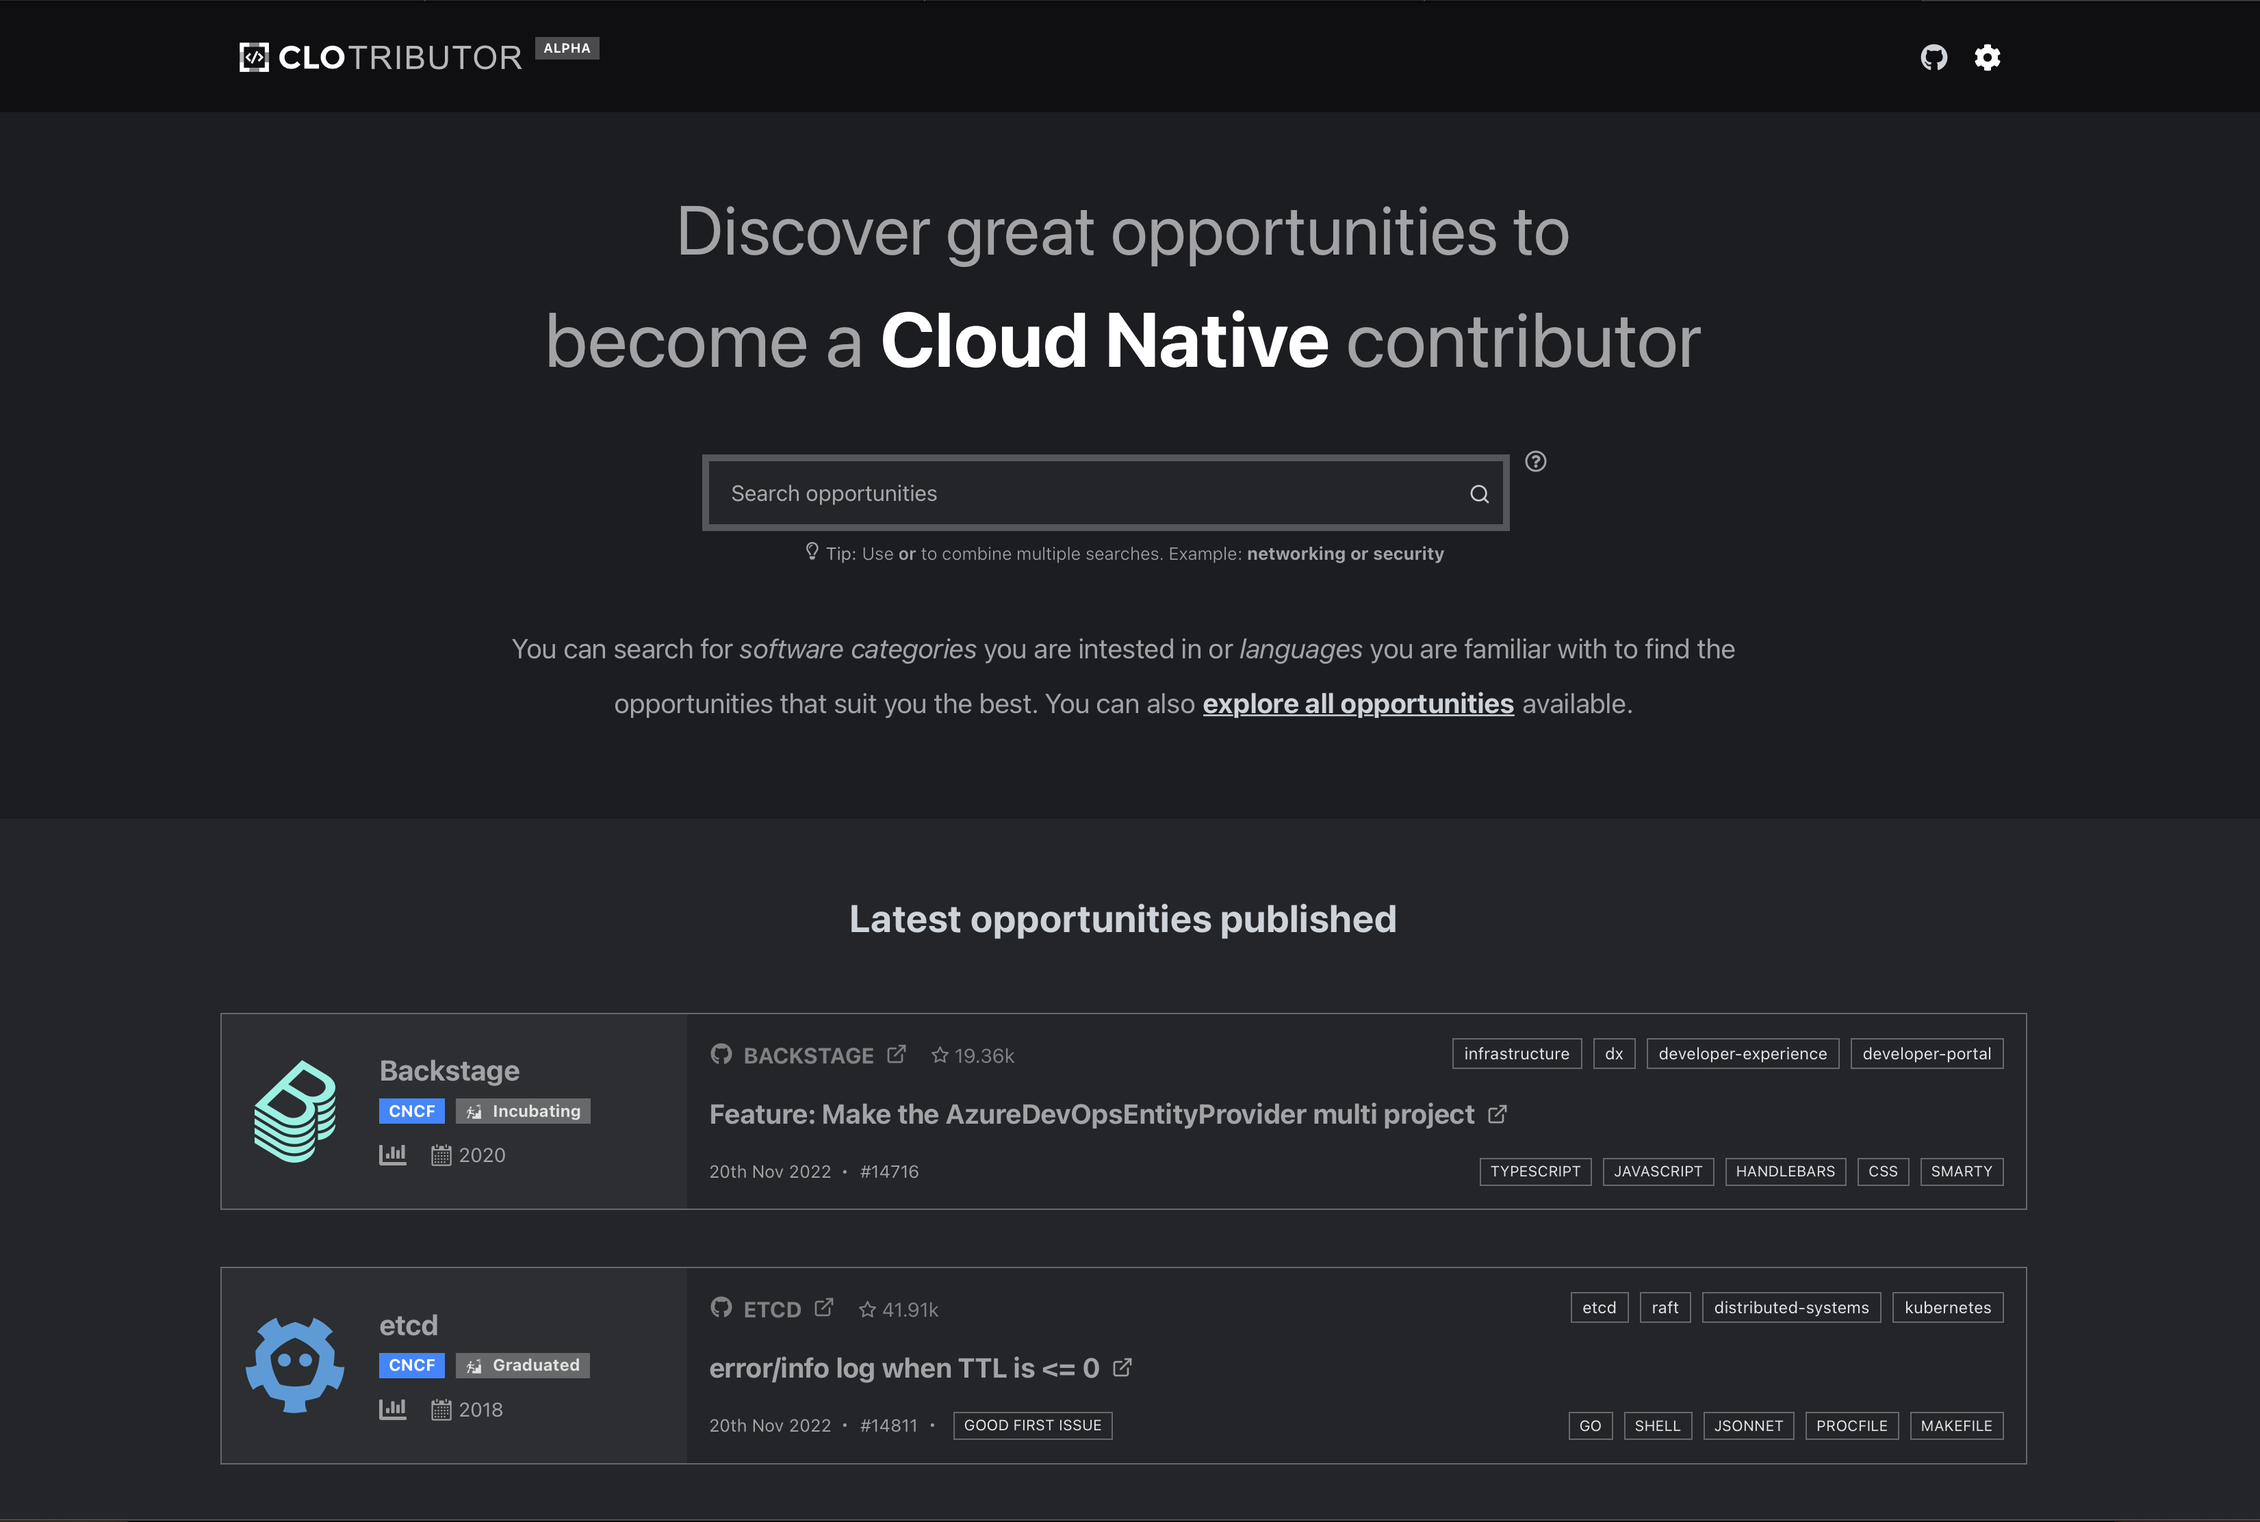
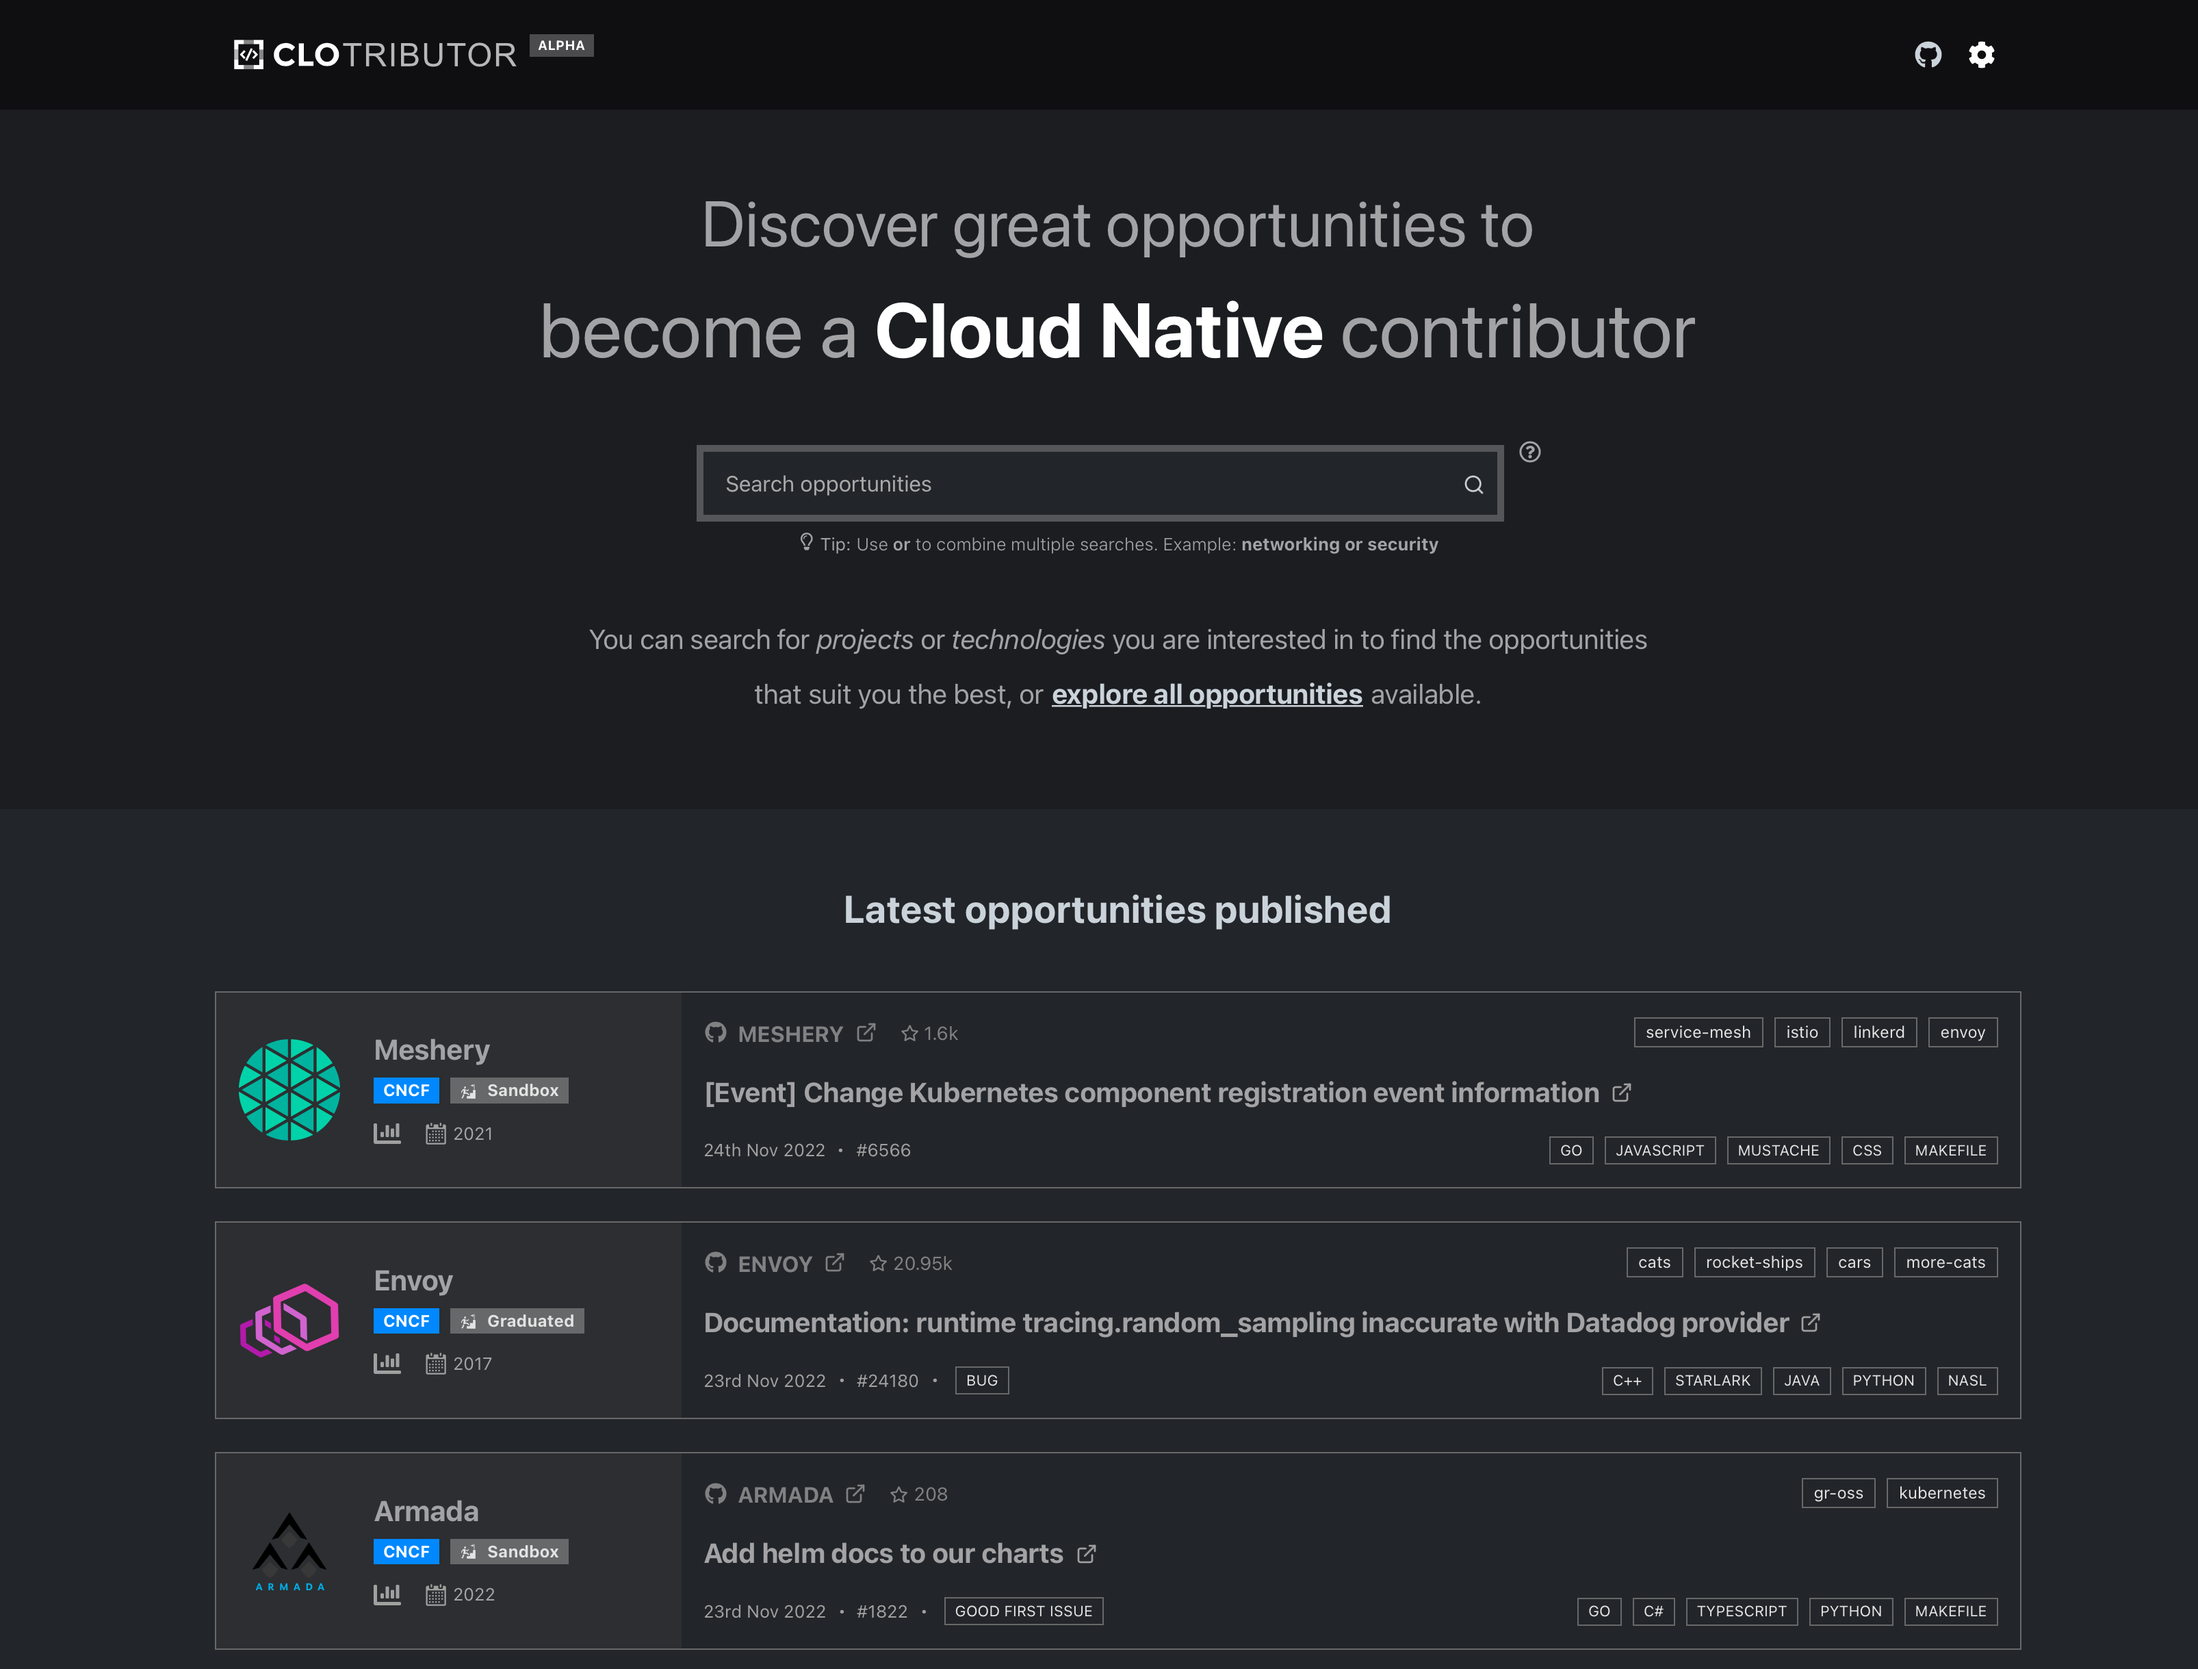
Some improvements in UI (#32)

diff --git a/web/src/layout/home/index.tsx b/web/src/layout/home/index.tsx
@@ -1,3 +1,6 @@
+import classnames from 'classnames';
+import { Loading } from 'clo-ui';
+import { isUndefined } from 'lodash';
 import { Dispatch, SetStateAction, useEffect, useState } from 'react';
 import { Link } from 'react-router-dom';
 
@@ -14,16 +17,26 @@ interface Props {
 }
 
 const Home = (props: Props) => {
-  const [latestOpportunities, setLatestOpportunities] = useState<Issue[]>([]);
+  const [latestOpportunities, setLatestOpportunities] = useState<Issue[] | undefined>();
+  const [loadingLatestOpportunities, setLoadingLatestOpportunities] = useState<boolean>(true);
 
   useEffect(() => {
+    window.scrollTo(0, 0);
+
     async function getLatestOpportunities() {
-      const opp = await API.searchIssues({
-        limit: 10,
-        offset: 0,
-        sort_by: DEFAULT_SORT_BY,
-      });
-      setLatestOpportunities(opp.items);
+      setLoadingLatestOpportunities(true);
+      try {
+        const opp = await API.searchIssues({
+          limit: 10,
+          offset: 0,
+          sort_by: DEFAULT_SORT_BY,
+        });
+        setLatestOpportunities(opp.items);
+      } catch {
+        setLatestOpportunities([]);
+      } finally {
+        setLoadingLatestOpportunities(false);
+      }
     }
     getLatestOpportunities();
   }, []);
@@ -42,7 +55,7 @@ const Home = (props: Props) => {
           <div className="d-none d-sm-block">
             <div className={styles.midFont}>Discover great opportunities to</div>
             <div className={`mb-1 mb-sm-4 ${styles.bigFont}`}>
-              become a <span className="fw-bold extraLightText">Cloud Native</span> contributor
+              become a <span className="fw-bold lightText">Cloud Native</span> contributor
             </div>
           </div>
 
@@ -53,9 +66,9 @@ const Home = (props: Props) => {
 
           <div className="mx-3 mx-md-5 mt-2 mt-sm-3">
             <p className={`d-none d-sm-block px-0 px-md-5 mx-auto ${styles.legend}`}>
-              You can search for <span className="fst-italic">software categories</span> you are intested in or{' '}
-              <span className="fst-italic">languages</span> you are familiar with to find the opportunities that suit
-              you the best. You can also{' '}
+              You can search for <span className="fst-italic">projects</span> or{' '}
+              <span className="fst-italic">technologies</span> you are interested in to find the opportunities that suit
+              you the best, or{' '}
               <Link
                 to="/search"
                 type="button"
@@ -80,35 +93,39 @@ const Home = (props: Props) => {
         </div>
       </div>
 
-      {latestOpportunities.length > 0 && (
-        <div>
-          <div className="w-100 py-3 py-sm-4">
-            <div className="h3 fw-bold text-center text-dark mt-0 mt-md-2 mb-3 mb-sm-4">
-              Latest opportunities <span className="d-none d-sm-inline-block">published</span>
-            </div>
+      <div className={classnames({ 'd-none': !isUndefined(latestOpportunities) && latestOpportunities.length === 0 })}>
+        <div className="w-100 py-3 py-sm-4">
+          <div className="h3 fw-bold text-center text-dark mt-0 mt-md-2 mb-3 mb-sm-4">
+            Latest opportunities <span className="d-none d-sm-inline-block">published</span>
+          </div>
 
-            <div className="container-lg px-sm-4 px-lg-0">
-              <div className="d-flex flex-wrap justify-content-center">
-                <div className="pt-2 mb-5 row g-0 justify-content-center w-100" role="list">
-                  {latestOpportunities.map((issue: Issue, index: number) => {
-                    return <Card key={`issue_${issue.number}_${index}`} issue={issue} />;
-                  })}
-                </div>
-
-                <div className="text-center mb-5">
-                  <Link
-                    to="/search"
-                    type="button"
-                    className="btn btn-md rounded-0 btn-primary text-uppercase text-decoration-none"
-                  >
-                    Explore all
-                  </Link>
-                </div>
-              </div>
+          <div className="container-lg px-sm-4 px-lg-0">
+            <div
+              className={`d-flex flex-wrap justify-content-center position-relative ${styles.latestOpportunitiesWrapper}`}
+            >
+              {loadingLatestOpportunities && <Loading transparentBg />}
+              {!isUndefined(latestOpportunities) && (
+                <>
+                  <div className="pt-2 mb-5 row g-0 justify-content-center w-100" role="list">
+                    {latestOpportunities.map((issue: Issue, index: number) => {
+                      return <Card key={`issue_${issue.number}_${index}`} issue={issue} />;
+                    })}
+                  </div>
+                  <div className="text-center mb-5">
+                    <Link
+                      to="/search"
+                      type="button"
+                      className="btn btn-md rounded-0 btn-primary text-uppercase text-decoration-none"
+                    >
+                      Explore all
+                    </Link>
+                  </div>
+                </>
+              )}
             </div>
           </div>
         </div>
-      )}
+      </div>
     </>
   );
 };

diff --git a/web/src/layout/search/index.tsx b/web/src/layout/search/index.tsx
@@ -4,7 +4,7 @@ import { isEmpty, isUndefined } from 'lodash';
 import { Dispatch, SetStateAction, useContext, useEffect, useState } from 'react';
 import { FaFilter } from 'react-icons/fa';
 import { IoMdCloseCircleOutline } from 'react-icons/io';
-import { useLocation, useNavigate, useSearchParams } from 'react-router-dom';
+import { useNavigate, useSearchParams } from 'react-router-dom';
 
 import API from '../../api';
 import { AppContext, updateLimit, updateSort } from '../../context/AppContextProvider';
@@ -15,7 +15,6 @@ import prepareQueryString from '../../utils/prepareQueryString';
 import Card from '../common/Card';
 import Filters from './Filters';
 import FiltersInLine from './FiltersInLine';
-// import Filters from './Filters';
 import styles from './Search.module.css';
 import SelectedFilters from './SelectedFilters';
 
@@ -30,7 +29,6 @@ interface Props {
 
 const Search = (props: Props) => {
   const navigate = useNavigate();
-  const location = useLocation();
   const { ctx, dispatch } = useContext(AppContext);
   const { limit, sort } = ctx.prefs.search;
   const [searchParams] = useSearchParams();
@@ -41,7 +39,6 @@ const Search = (props: Props) => {
   const [issues, setIssues] = useState<Issue[] | null | undefined>();
   const [isLoading, setIsLoading] = useState<boolean>(false);
   const [apiError, setApiError] = useState<string | null>(null);
-  const currentState = location.state as { resetScrollPosition?: boolean };
 
   const onResetFilters = (): void => {
     props.setScrollPosition(0);
@@ -97,9 +94,9 @@ const Search = (props: Props) => {
     dispatch(updateSort(by as SortBy));
   };
 
-  const onPageNumberChange = (pageNumber: number): void => {
+  const onPageNumberChange = (pNumber: number): void => {
     updateCurrentPage({
-      pageNumber: pageNumber,
+      pageNumber: pNumber,
     });
   };
 
@@ -139,6 +136,9 @@ const Search = (props: Props) => {
 
     async function searchIssues() {
       setIsLoading(true);
+      // Update scroll position
+      updateWindowScrollPosition(0);
+
       try {
         const newSearchResults = await API.searchIssues({
           ts_query_web: formattedParams.ts_query_web,
@@ -153,12 +153,6 @@ const Search = (props: Props) => {
         setApiError('An error occurred searching issues.');
       } finally {
         setIsLoading(false);
-        let currentScrollPosition = props.scrollPosition || 0;
-        if (currentState && currentState.resetScrollPosition) {
-          currentScrollPosition = 0;
-        }
-        // Update scroll position
-        updateWindowScrollPosition(currentScrollPosition);
       }
     }
 

diff --git a/web/src/layout/navigation/MobileSettings.tsx b/web/src/layout/navigation/MobileSettings.tsx
@@ -31,7 +31,11 @@ const MobileSettings = () => {
         <hr />
 
         <div className="dropdown-item mb-2">
-          <ExternalLink className="text-decoration-none fw-bold d-inline-block w-100" label="Github link" href="">
+          <ExternalLink
+            className="text-decoration-none fw-bold d-inline-block w-100"
+            label="Github link"
+            href="https://github.com/cncf/clotributor"
+          >
             <div className="d-flex flex-row align-items-center py-1">
               <FaGithub />
               <div className="ms-2">Github</div>

diff --git a/web/src/layout/home/Home.module.css b/web/src/layout/home/Home.module.css
@@ -16,7 +16,7 @@
 }
 
 .legend {
-  max-width: 1000px;
+  max-width: 900px;
   font-size: 1.25rem;
   line-height: 2;
 }
@@ -24,6 +24,10 @@
 .link {
   font-size: inherit;
   vertical-align: baseline;
+}
+
+.latestOpportunitiesWrapper {
+  min-height: 200px;
 }
 
 @media only screen and (max-width: 991.98px) {

diff --git a/README.md b/README.md
@@ -24,7 +24,7 @@ To achieve this, **CLOTributor** scans periodically hundreds of repositories, in
 
 In addition to some issue's details, like the *title* or *labels*, we also collect and index some metadata from the corresponding repository, like its *topics* or the *programming languages* used. We are also working on trying to normalize some labels we've observed across issues on different repositories to make it easier to categorize and filter them.
 
-At the moment some labels are highlighted in a special way, like `good first issue` or labels that contain the string `bug`. In general, the more context projects can provide in their issues via labels, the better. Labels like `frontend`, or even specific mentioning specific frameworks like `react` or `vue`, may help users finding issues that suit them best.
+At the moment some labels are highlighted in a special way, like `good first issue` or labels that contain the string `bug`. In general, the more context projects can provide in their issues via labels, the better. Labels like `frontend`, or even mentioning specific frameworks like `react` or `vue`, may help users finding issues that suit them best.
 
 The generated index can be searched from <https://clotributor.dev>. The following syntax can be used to narrow down the results:
 
